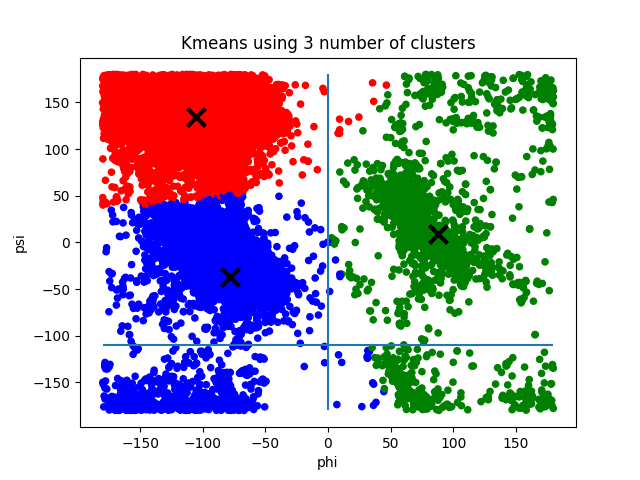
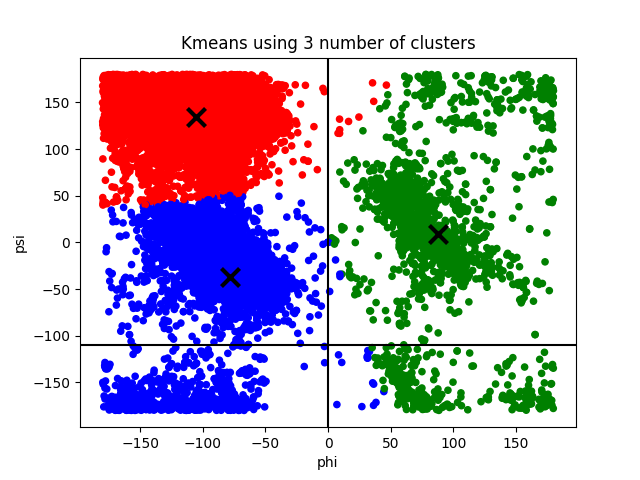
add axhlines

Changed region(s): [[0.5, 0.6875, 0.5312, 0.75], [0.5, 0.9062, 0.5312, 0.9375]]

diff --git a/assignment3/src/kmeans/kmeans.py b/assignment3/src/kmeans/kmeans.py
@@ -67,10 +67,5 @@ plt.scatter(centroids[:, 0], centroids[:, 1],
             marker='x', s=169, linewidths=3,
             color='k', zorder=10)
 
-#plt.hlines(-110, -180,180)
-#plt.vlines(0, -180,180)
-
-
-
 plt.title("Kmeans using " + str(n_clusters) + " number of clusters")
 plt.show()

diff --git a/assignment3/report.md b/assignment3/report.md
@@ -8,11 +8,13 @@
 
 ## _Question 1_ - Show the distributions
 
+These tasks are straightforward so we present the code rather than explain it.
+
+
+### Scatterplot
 ```python
 df.plot.scatter(x=PHI, y=PSI)
 ```
-
-### Scatterplot
 
 <p align="center">
     <img src="fig/scatterplot.png">
@@ -24,6 +26,8 @@ df.plot.scatter(x=PHI, y=PSI)
 Code for creating square heatmap, show left below.
 
 ```python
+# Square heatmap
+
 # In this program we create a 18x18 matrix of integers, and calculate index by floor division
 
 # create matrix
@@ -44,6 +48,7 @@ ax = sns.heatmap(matrix, xticklabels=X_TICKS, yticklabels=Y_TICKS)
 Code for creating smooth heatmap, shown right below:
 
 ```python
+# smooth heatmap
 sns.kdeplot(x=df[PHI], y=df[PSI], fill=True, cmap="rocket", cbar=True, thresh=0, levels=50)
 ```
 
@@ -192,17 +197,9 @@ file.
 a. Motivate:
 -->
 
-## a - Motivate - robert
+## a - Motivate
 
-We will try to motivate our choice of the minimum number of samples and selecting the maximum distance by looking at heatmaps that we have generated. We will also look at a variant of the elbow-method to find an epsilon.
-
-By looking at the heatmaps below we try to reason:
-
-<p align="center">
-    <img src="fig/heatmap.png" width=45%>
-    <img src="fig/heatmap_cool.png" width=45%>
-    <p align="center">Figure X: Heatmap for dataset using two different representations<p>
-<p>
+<!--We will try to motivate our choice of the minimum number of samples and selecting the maximum distance by looking at heatmaps that we have generated. We will also look at a variant of the elbow-method to find an epsilon.-->
 
 ### i - the choice of the minimum number of samples in the neighbourhood for a point to be considered as a core point
 
@@ -210,8 +207,8 @@ _[To preface, we are not entirely sure how to motivate this number, we have goog
 
 Things we had in mind when we chose the number:
 
-- Do not form clusters of noise, hence we do not want to choose a to low minPts.
-- The value should be picked by someone with domain knowledge.
+- Do not form clusters of noise, hence we do not want to choose a to low minPts. Assisted by looking at our heatmaps.
+- The value should be picked by someone with domain knowledge, i.e. not us.
 - Given an arbitrarily chosen epsilon, we wanted to ensure that clusters we could visually motivate would be classified as such, and also that potential "bridges" across subsets of clusters.
 
 Again, we did not really have any foundation when it came to this, we decided to test different values and ended up choosing 42. We decided that we would pick a suitable epsilon based on the value of minPts. It was noted online that this was an acceptable approach and we explore choosing this value more in depth in part d.
@@ -251,9 +248,7 @@ index = np.diff(distances[0:28750]).argmax()
 
 Using `n_neighbors=42`, we get an epsilon of `19`, which we will use for the remainder of the analysis.
 
-It is possible to argue our tweak to the algorithm, as ... lowest is relevant, core points can grow very large in numbers, ...
-
-# TODO: FIX THIS
+It is possible to argue our tweak to the algorithm, as this arbitrary distinction that noise begin at the largest jump in distance can have it's flaws. We also note that for large values of `n_neighbors` our approach performs poorly. But this proved effective for us and it seems that approaches are inherently data-dependent. We learn that it is important to have the amount of core points in mind and (although again, it is data dependent on the densisty) make sure that some non-core points are classified as well.
 
 ## b - Highlight clusters found using DBSCAN, Barplot and outliers.
 
